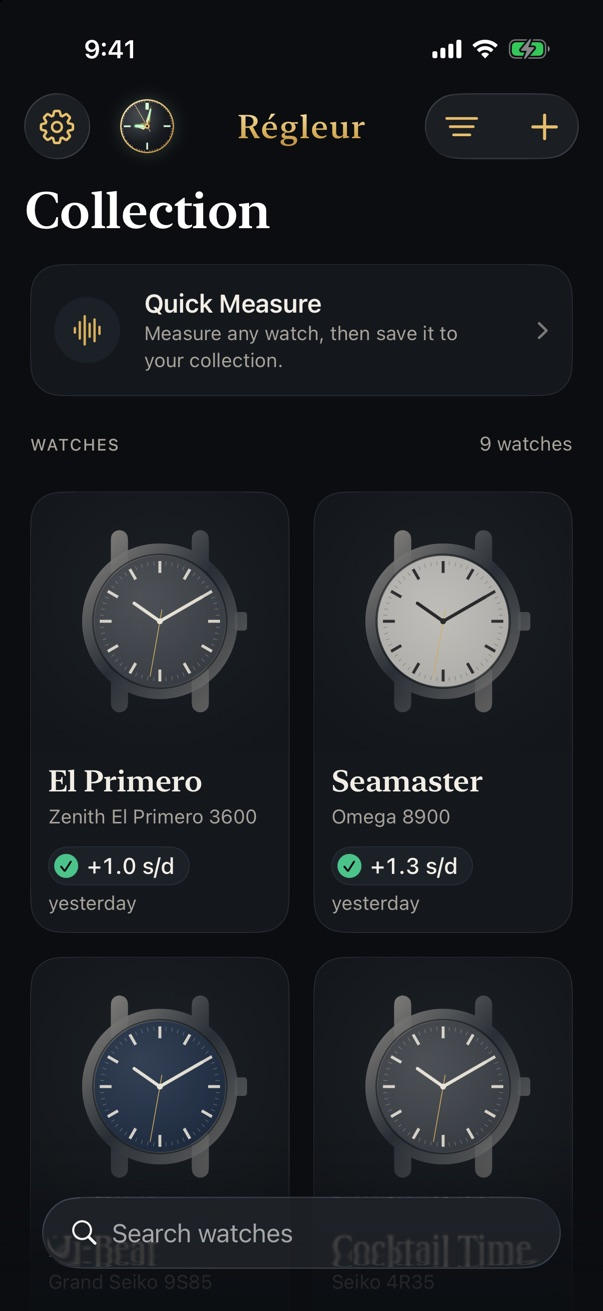
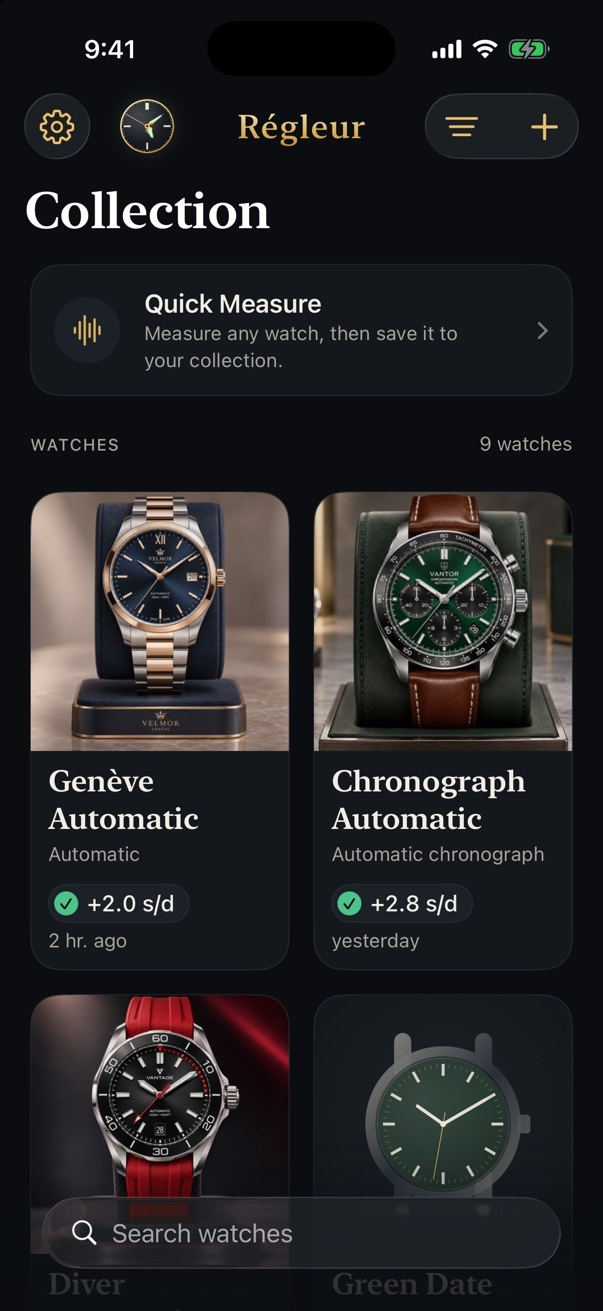
feat: new Régleur screenshots with image cache-busting (#6)
Replaces the four Régleur screenshots with the new fictional-sample-watch set and extends the content-hash cache-busting to images.

diff --git a/partsbin.html b/partsbin.html
@@ -21,7 +21,7 @@
 <meta name="twitter:image" content="https://celadora.net/assets/og-partsbin.png">
 <link rel="icon" href="favicon.ico" sizes="any">
 <link rel="icon" type="image/svg+xml" href="favicon.svg">
-<link rel="apple-touch-icon" sizes="180x180" href="/assets/apple-touch-icon.png">
+<link rel="apple-touch-icon" sizes="180x180" href="/assets/apple-touch-icon.png?v=84b1470f">
 <meta name="theme-color" content="#161826">
 <meta property="og:locale" content="en_US">
 <link rel="stylesheet" href="_ds/nocturne-93951b28-3eee-4280-b6bd-1dd1a34d1cd8/styles.css">
@@ -88,7 +88,7 @@
 
           <li class="gallery-slide">
             <figure class="shot">
-              <img src="/assets/partsbin-threaded-fastener.webp" width="2560" height="1660"
+              <img src="/assets/partsbin-threaded-fastener.webp?v=ab4d303a" width="2560" height="1660"
                    loading="eager" fetchpriority="high" decoding="async"
                    alt="The partsbin editor showing a threaded fastener: a socket-cap screw with a real helical thread, rendered as a solid. The panel on the right sets head style, diameter and height, the drive recess and driver size, and the thread standard, size, pitch and length. A readout reports 0.73 cubic centimetres of material and 32,474 triangles, with a warning that 646 zero-area triangles will be discarded by slicers.">
               <figcaption>Threaded fastener. Seven head styles, five drive recesses, and any pitch you like.</figcaption>
@@ -97,7 +97,7 @@
 
           <li class="gallery-slide">
             <figure class="shot">
-              <img src="/assets/partsbin-basket.webp" width="2560" height="1660"
+              <img src="/assets/partsbin-basket.webp?v=c4ef1c67" width="2560" height="1660"
                    loading="lazy" decoding="async"
                    alt="The partsbin editor showing a basket: an open slatted crate with rounded corners, drain holes in the floor and a mounting tongue. The panel sets length 200, width 140 and height 110 millimetres, plus lean angle, corner radius, wall, floor and rim thickness, and slat width and gap. The readout reports 256.72 cubic centimetres of material and 42,764 triangles.">
               <figcaption>Basket. Solid, slatted or mesh, with a tongue cut from the same figure as the mount's slot.</figcaption>
@@ -106,7 +106,7 @@
 
           <li class="gallery-slide">
             <figure class="shot">
-              <img src="/assets/partsbin-bar-mount.webp" width="2560" height="1660"
+              <img src="/assets/partsbin-bar-mount.webp?v=dad6d06c" width="2560" height="1660"
                    loading="lazy" decoding="async"
                    alt="The partsbin editor showing a bar and stem mount: a curved clamp half with a bolt hole through one side and a slide-in slot on the other. The panel sets the bar section and size at a 31.8 millimetre bar clamp, fit and closing gap, body wall, width and edge chamfer, and whether the clamp is held by bolts. The readout reports 12.53 cubic centimetres and 3,796 triangles.">
               <figcaption>Bar &amp; stem mount. Clamps a handlebar, scooter stem or seatpost, round or oval.</figcaption>
@@ -115,7 +115,7 @@
 
           <li class="gallery-slide">
             <figure class="shot">
-              <img src="/assets/partsbin-control-knob.webp" width="2560" height="1660"
+              <img src="/assets/partsbin-control-knob.webp?v=ba0212d2" width="2560" height="1660"
                    loading="lazy" decoding="async"
                    alt="The partsbin editor showing a control knob: a tapered cylinder with eight scalloped flutes around its grip and a domed top with a central bore. The panel sets base diameter 40 millimetres, taper 8 degrees, height 22 millimetres, base and top chamfers, grip style, flute count and depth, and the top shape. The readout reports 18.26 cubic centimetres and 7,218 triangles.">
               <figcaption>Control knob. Captures a nut or bolt head, for jigs, clamps and machine adjusters.</figcaption>

diff --git a/regleur.html b/regleur.html
@@ -22,7 +22,7 @@
 <meta name="twitter:image" content="https://celadora.net/assets/og-celadora.png">
 <link rel="icon" href="favicon.ico" sizes="any">
 <link rel="icon" type="image/svg+xml" href="favicon.svg">
-<link rel="apple-touch-icon" sizes="180x180" href="/assets/apple-touch-icon.png">
+<link rel="apple-touch-icon" sizes="180x180" href="/assets/apple-touch-icon.png?v=84b1470f">
 <meta name="theme-color" content="#161826">
 <meta property="og:locale" content="en_US">
 <link rel="stylesheet" href="_ds/nocturne-93951b28-3eee-4280-b6bd-1dd1a34d1cd8/styles.css">
@@ -89,19 +89,19 @@
     <!-- Screenshots are 1206 x 2622 captures resized to 603 x 1311 (assets/regleur-*.jpg). To replace one, overwrite the file or change src. Keep width/height and alt. -->
     <div class="phone-row" role="group" aria-label="Régleur screenshots, scroll sideways on small screens" tabindex="0">
       <figure class="shot">
-        <img class="phone" src="/assets/regleur-measure.jpg" width="603" height="1311" alt="Régleur's Measure screen showing a steady reading of plus 2.4 seconds a day for a demo watch, with a live strip of detected ticks." loading="lazy" decoding="async">
+        <img class="phone" src="/assets/regleur-measure.jpg?v=0032cc28" width="603" height="1311" alt="Régleur's Measure screen showing a steady reading of plus 2.4 seconds a day for a demo watch, with a live strip of detected ticks." loading="lazy" decoding="async">
         <figcaption>Measure: rate, beat error and beat rate, with an honest margin that narrows as it listens.</figcaption>
       </figure>
       <figure class="shot">
-        <img class="phone" src="/assets/regleur-result.jpg" width="603" height="1311" alt="Régleur's reading summary, explaining in plain English how the watch is running." loading="lazy" decoding="async">
+        <img class="phone" src="/assets/regleur-result.jpg?v=7570fd53" width="603" height="1311" alt="Régleur's reading summary, explaining in plain English how the watch is running." loading="lazy" decoding="async">
         <figcaption>Results: a plain-English summary of how your watch is running.</figcaption>
       </figure>
       <figure class="shot">
-        <img class="phone" src="/assets/regleur-collection.jpg" width="603" height="1311" alt="Régleur's Collection screen: a grid of watches, each with its latest rate, and a Quick Measure shortcut." loading="lazy" decoding="async">
+        <img class="phone" src="/assets/regleur-collection.jpg?v=1cba7527" width="603" height="1311" alt="Régleur's Collection screen: a grid of watches, each with its latest rate, and a Quick Measure shortcut." loading="lazy" decoding="async">
         <figcaption>Collection: your watches, photographed and described.</figcaption>
       </figure>
       <figure class="shot">
-        <img class="phone" src="/assets/regleur-watch-detail.jpg" width="603" height="1311" alt="Régleur's watch detail screen with movement details, rate trend and service history." loading="lazy" decoding="async">
+        <img class="phone" src="/assets/regleur-watch-detail.jpg?v=261ef282" width="603" height="1311" alt="Régleur's watch detail screen with movement details, rate trend and service history." loading="lazy" decoding="async">
         <figcaption>Watch detail: history, trends and service dates.</figcaption>
       </figure>
     </div>

diff --git a/index.html b/index.html
@@ -21,7 +21,7 @@
 <meta name="twitter:image" content="https://celadora.net/assets/og-celadora.png">
 <link rel="icon" href="favicon.ico" sizes="any">
 <link rel="icon" type="image/svg+xml" href="favicon.svg">
-<link rel="apple-touch-icon" sizes="180x180" href="/assets/apple-touch-icon.png">
+<link rel="apple-touch-icon" sizes="180x180" href="/assets/apple-touch-icon.png?v=84b1470f">
 <meta name="theme-color" content="#161826">
 <meta property="og:locale" content="en_US">
 <link rel="stylesheet" href="_ds/nocturne-93951b28-3eee-4280-b6bd-1dd1a34d1cd8/styles.css">
@@ -252,8 +252,8 @@
         </div>
         <div class="card-visual">
           <div class="phone-pair">
-            <img class="phone" src="/assets/regleur-measure.jpg" width="603" height="1311" alt="Régleur's Measure screen showing a steady reading of plus 2.4 seconds a day for a demo watch, with a live strip of detected ticks." loading="lazy" decoding="async">
-            <img class="phone" src="/assets/regleur-collection.jpg" width="603" height="1311" alt="Régleur's Collection screen: a grid of watches, each with its latest rate, and a Quick Measure shortcut." loading="lazy" decoding="async">
+            <img class="phone" src="/assets/regleur-measure.jpg?v=0032cc28" width="603" height="1311" alt="Régleur's Measure screen showing a steady reading of plus 2.4 seconds a day for a demo watch, with a live strip of detected ticks." loading="lazy" decoding="async">
+            <img class="phone" src="/assets/regleur-collection.jpg?v=1cba7527" width="603" height="1311" alt="Régleur's Collection screen: a grid of watches, each with its latest rate, and a Quick Measure shortcut." loading="lazy" decoding="async">
           </div>
         </div>
       </article>
@@ -299,7 +299,7 @@
         </div>
         <div class="card-visual">
           <figure class="shot">
-            <img src="/assets/partsbin-threaded-fastener.webp" width="2560" height="1660" loading="lazy" decoding="async"
+            <img src="/assets/partsbin-threaded-fastener.webp?v=ab4d303a" width="2560" height="1660" loading="lazy" decoding="async"
                  alt="The partsbin editor: a socket-cap screw with a real helical thread rendered as a solid, beside the panel that sets its head style, drive, thread size, pitch and length.">
           </figure>
         </div>

diff --git a/regleur/privacy.html b/regleur/privacy.html
@@ -21,7 +21,7 @@
 <meta name="twitter:image" content="https://celadora.net/assets/og-celadora.png">
 <link rel="icon" href="/favicon.ico" sizes="any">
 <link rel="icon" type="image/svg+xml" href="/favicon.svg">
-<link rel="apple-touch-icon" sizes="180x180" href="/assets/apple-touch-icon.png">
+<link rel="apple-touch-icon" sizes="180x180" href="/assets/apple-touch-icon.png?v=84b1470f">
 <meta name="theme-color" content="#161826">
 <meta property="og:locale" content="en_US">
 <link rel="stylesheet" href="/_ds/nocturne-93951b28-3eee-4280-b6bd-1dd1a34d1cd8/styles.css">

diff --git a/regleur/support.html b/regleur/support.html
@@ -21,7 +21,7 @@
 <meta name="twitter:image" content="https://celadora.net/assets/og-celadora.png">
 <link rel="icon" href="/favicon.ico" sizes="any">
 <link rel="icon" type="image/svg+xml" href="/favicon.svg">
-<link rel="apple-touch-icon" sizes="180x180" href="/assets/apple-touch-icon.png">
+<link rel="apple-touch-icon" sizes="180x180" href="/assets/apple-touch-icon.png?v=84b1470f">
 <meta name="theme-color" content="#161826">
 <meta property="og:locale" content="en_US">
 <link rel="stylesheet" href="/_ds/nocturne-93951b28-3eee-4280-b6bd-1dd1a34d1cd8/styles.css">

diff --git a/regleur/terms.html b/regleur/terms.html
@@ -21,7 +21,7 @@
 <meta name="twitter:image" content="https://celadora.net/assets/og-celadora.png">
 <link rel="icon" href="/favicon.ico" sizes="any">
 <link rel="icon" type="image/svg+xml" href="/favicon.svg">
-<link rel="apple-touch-icon" sizes="180x180" href="/assets/apple-touch-icon.png">
+<link rel="apple-touch-icon" sizes="180x180" href="/assets/apple-touch-icon.png?v=84b1470f">
 <meta name="theme-color" content="#161826">
 <meta property="og:locale" content="en_US">
 <link rel="stylesheet" href="/_ds/nocturne-93951b28-3eee-4280-b6bd-1dd1a34d1cd8/styles.css">

diff --git a/accessibility.html b/accessibility.html
@@ -21,7 +21,7 @@
 <meta name="twitter:image" content="https://celadora.net/assets/og-celadora.png">
 <link rel="icon" href="favicon.ico" sizes="any">
 <link rel="icon" type="image/svg+xml" href="favicon.svg">
-<link rel="apple-touch-icon" sizes="180x180" href="/assets/apple-touch-icon.png">
+<link rel="apple-touch-icon" sizes="180x180" href="/assets/apple-touch-icon.png?v=84b1470f">
 <meta name="theme-color" content="#161826">
 <meta property="og:locale" content="en_US">
 <link rel="stylesheet" href="_ds/nocturne-93951b28-3eee-4280-b6bd-1dd1a34d1cd8/styles.css">

diff --git a/privacy.html b/privacy.html
@@ -21,7 +21,7 @@
 <meta name="twitter:image" content="https://celadora.net/assets/og-celadora.png">
 <link rel="icon" href="favicon.ico" sizes="any">
 <link rel="icon" type="image/svg+xml" href="favicon.svg">
-<link rel="apple-touch-icon" sizes="180x180" href="/assets/apple-touch-icon.png">
+<link rel="apple-touch-icon" sizes="180x180" href="/assets/apple-touch-icon.png?v=84b1470f">
 <meta name="theme-color" content="#161826">
 <meta property="og:locale" content="en_US">
 <link rel="stylesheet" href="_ds/nocturne-93951b28-3eee-4280-b6bd-1dd1a34d1cd8/styles.css">

diff --git a/terms.html b/terms.html
@@ -21,7 +21,7 @@
 <meta name="twitter:image" content="https://celadora.net/assets/og-celadora.png">
 <link rel="icon" href="favicon.ico" sizes="any">
 <link rel="icon" type="image/svg+xml" href="favicon.svg">
-<link rel="apple-touch-icon" sizes="180x180" href="/assets/apple-touch-icon.png">
+<link rel="apple-touch-icon" sizes="180x180" href="/assets/apple-touch-icon.png?v=84b1470f">
 <meta name="theme-color" content="#161826">
 <meta property="og:locale" content="en_US">
 <link rel="stylesheet" href="_ds/nocturne-93951b28-3eee-4280-b6bd-1dd1a34d1cd8/styles.css">

diff --git a/claude-o-meter.html b/claude-o-meter.html
@@ -24,7 +24,7 @@
 <meta name="twitter:image" content="https://celadora.net/assets/og-claude-o-meter.png">
 <link rel="icon" href="favicon.ico" sizes="any">
 <link rel="icon" type="image/svg+xml" href="favicon.svg">
-<link rel="apple-touch-icon" sizes="180x180" href="/assets/apple-touch-icon.png">
+<link rel="apple-touch-icon" sizes="180x180" href="/assets/apple-touch-icon.png?v=84b1470f">
 <meta name="theme-color" content="#161826">
 <meta property="og:locale" content="en_US">
 <!-- Self-hosted runtime. support.js consults window.__resources before falling

diff --git a/CLAUDE.md b/CLAUDE.md
@@ -4,10 +4,10 @@ Static site for celadora.net: plain HTML, CSS and JS served verbatim by GitHub P
 
 ## Before you push (required)
 
-1. **After editing `site.css`, `legal.css`, `analytics.js`, `contact.js` or `gallery.js`, run `npm run assets:version`** and commit the result. It stamps a content hash into every link to those files (`site.css?v=8c075dae`).
-   - Why: Cloudflare caches CSS and JS for hours while HTML refreshes in minutes. New HTML with an old cached stylesheet renders unstyled (for example, images at full intrinsic size). A changed hash is a new URL, so every cache is bypassed.
+1. **After editing `site.css`, `legal.css`, `analytics.js`, `contact.js` or `gallery.js`, or adding or replacing any image in `assets/`, run `npm run assets:version`** and commit the result. It stamps a content hash into every link to those files (`site.css?v=8c075dae`, `regleur-measure.jpg?v=0032cc28`).
+   - Why: Cloudflare caches CSS, JS and images for hours while HTML refreshes in minutes. New HTML with an old cached stylesheet renders unstyled (for example, images at full intrinsic size), and a replaced image keeps showing the old one. A changed hash is a new URL, so every cache is bypassed.
    - CI fails the PR (Guardrails job) if any hash is missing or stale. Never hand-type a `?v=` value.
-   - A new tracked asset must be added to `ASSETS` in `scripts/asset-versions.mjs`.
+   - New CSS or JS files must be added to `CODE_ASSETS` in `scripts/asset-versions.mjs`; images in `assets/` are picked up automatically.
 2. Run `npm run check` (secrets, guardrails, asset versions, HTML, privacy, gallery, accessibility). Browser-based checks need Chrome: set `PUPPETEER_EXECUTABLE_PATH` to your Chrome binary if puppeteer's own download is missing.
 3. Preview locally with `npm run serve` (http://localhost:8791) and look at the page, not just the checks. Check the home page and the Régleur page at 1280 and 390 pixels wide.
 
